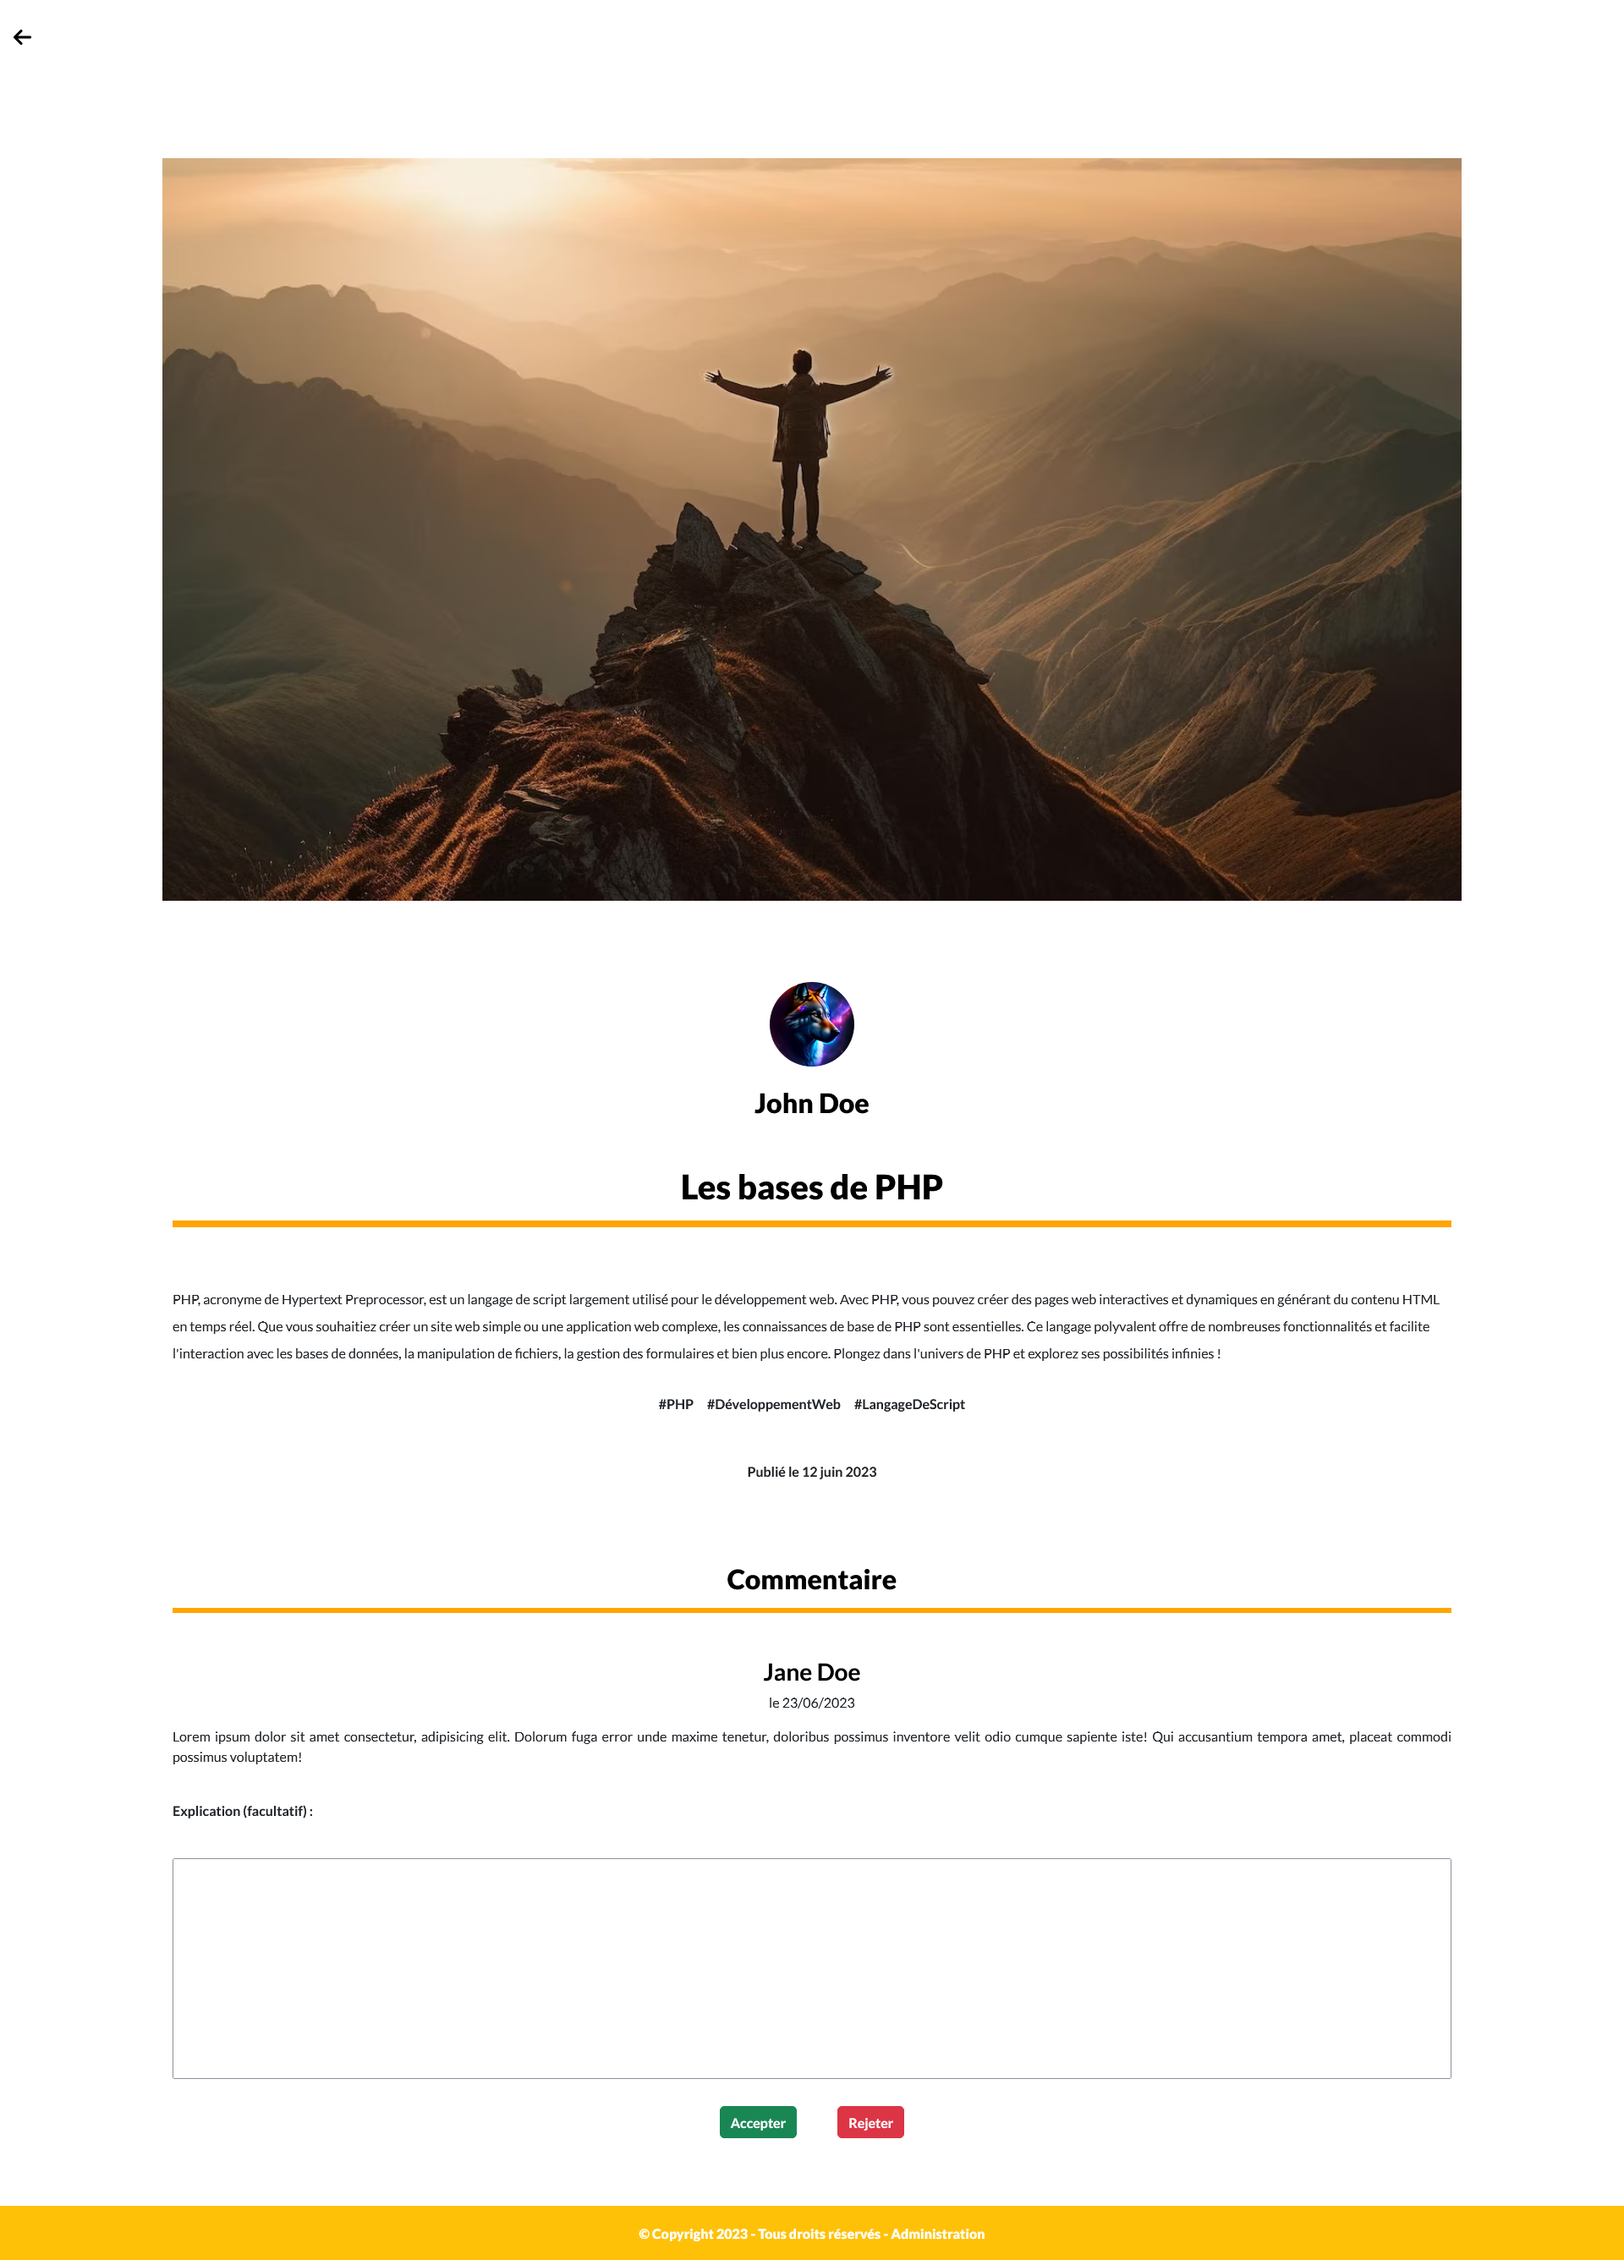
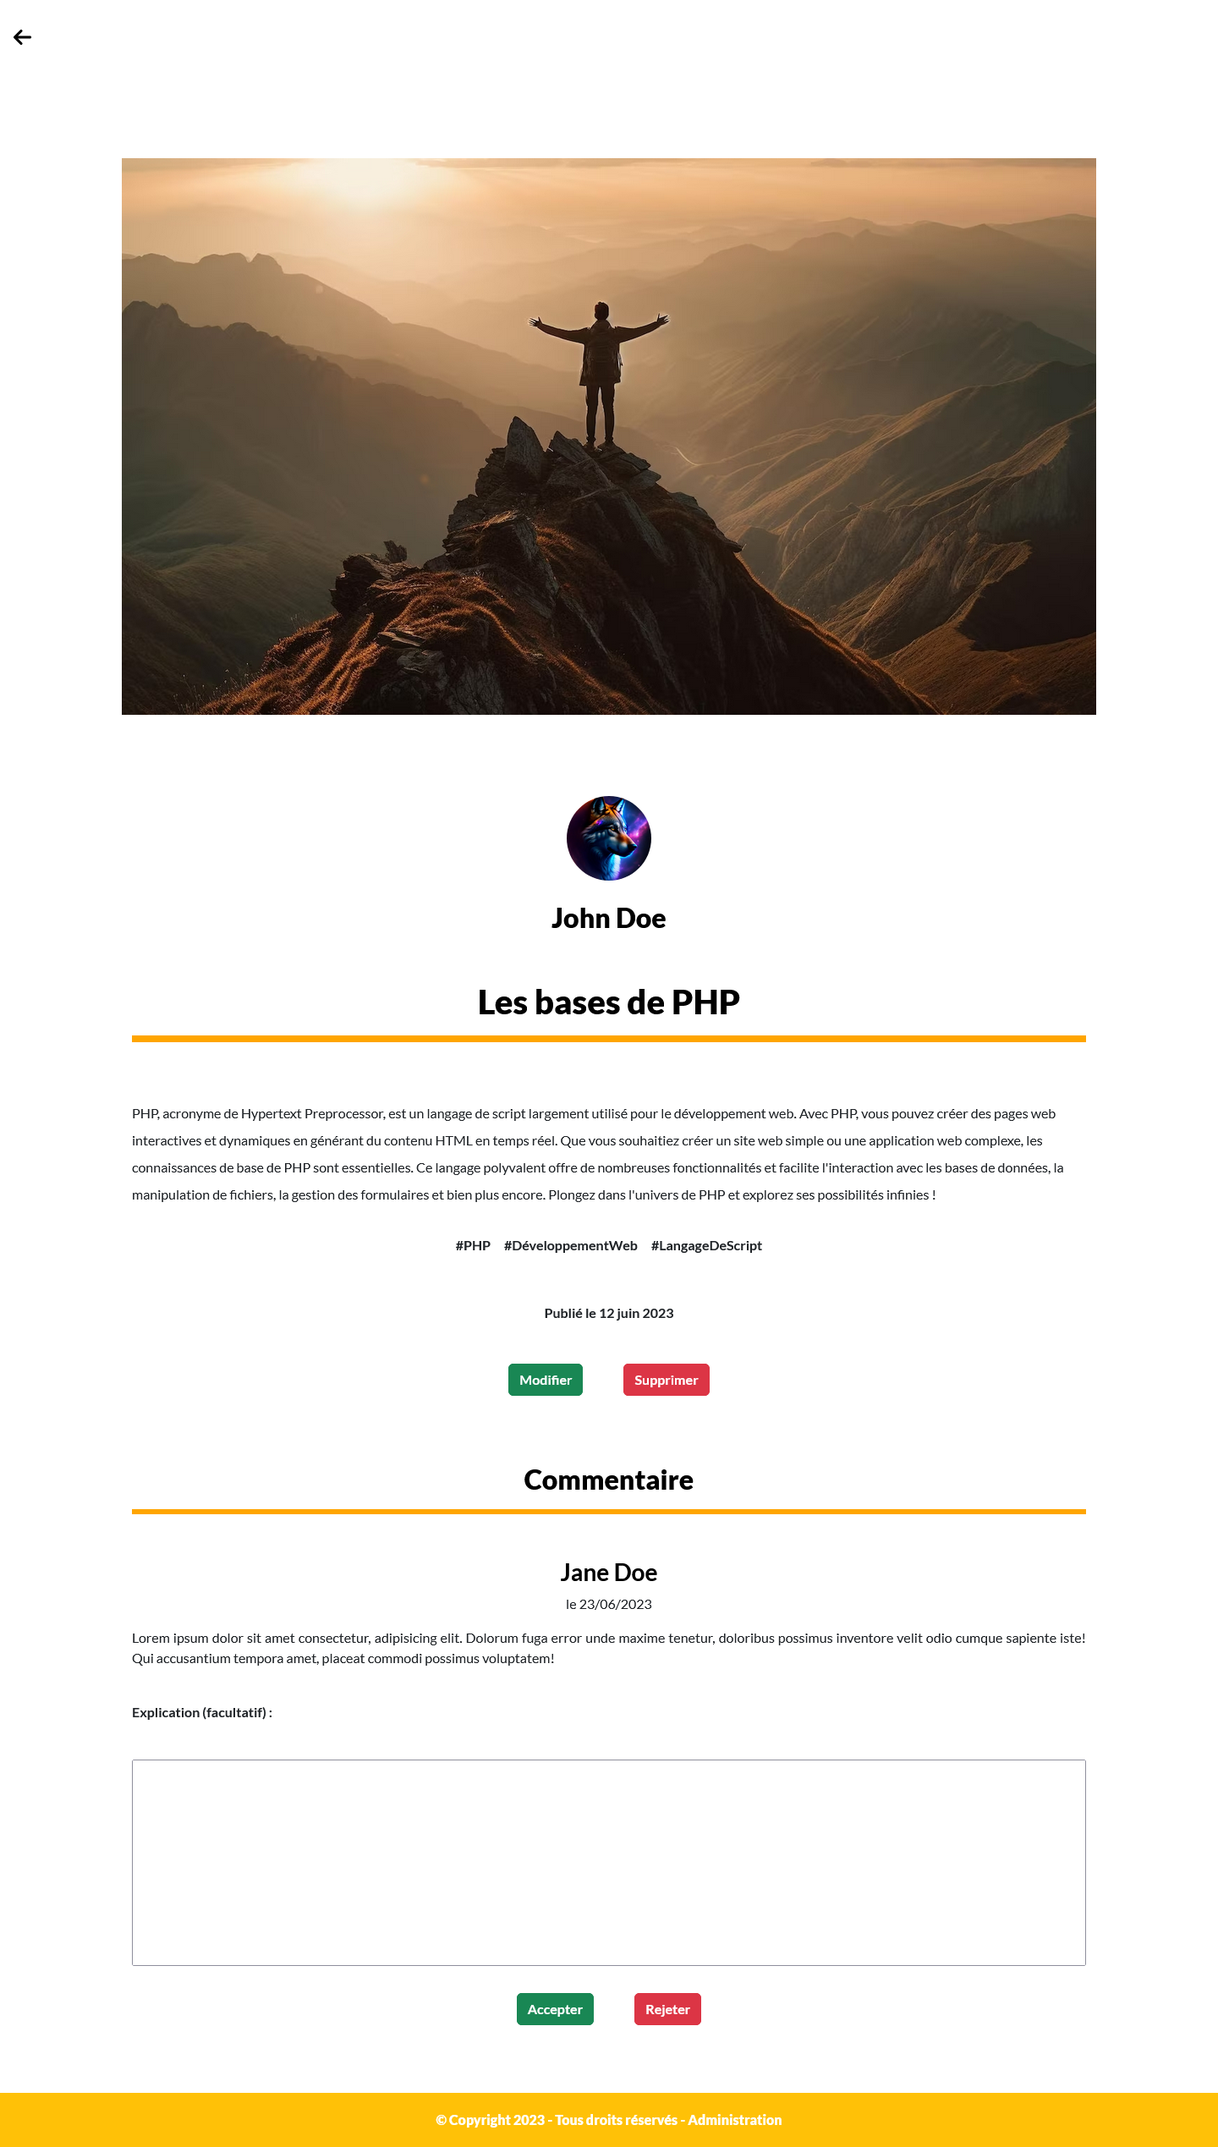
update directory & admins command

Changed region(s): [[0.0938, 0.0623, 0.9062, 0.6537], [0.0938, 0.6848, 0.875, 0.8093], [0.3438, 0.9027, 0.625, 0.9961]]

diff --git a/public/assets/css/article.css b/public/assets/css/article.css
@@ -57,19 +57,21 @@ header {
   border-width: .2em;
   position: relative;
 }
-.article-title::after{
+
+.article-title::after {
   content: '';
   position: absolute;
   width: 100%;
   border-bottom: 1px solid orange;
-    border-bottom-width: 1px;
+  border-bottom-width: 1px;
   border-width: .2em;
   left: 50%;
   top: 50%;
-  transform: translate(-50%,-50%);
+  transform: translate(-50%, -50%);
   bottom: -24px;
 }
-.article-content{
+
+.article-content {
 
   line-height: 2em;
   margin-bottom: 2em;
@@ -96,14 +98,22 @@ header {
   margin-inline: 0;
 }
 
-#comment{
+#comment {
   margin-top: 5em;
   margin-bottom: 5em;
   width: 80%;
 }
-#comment-main-title{
+
+#comments {
+  margin-top: 10em;
+  margin-bottom: 5em;
+  width: 80%;
+}
+
+#comment .h2,
+#comments .h2 {
   font-weight: var(--900);
-  color:var(--black);
+  color: var(--black);
   width: 100%;
   border-width: .2em;
   text-align: center;
@@ -112,65 +122,37 @@ header {
   position: relative;
 }
 
-#comment-main-title::after{
+.h2::after {
   content: '';
   position: absolute;
   width: 100%;
   border-bottom: 1px solid orange;
-    border-bottom-width: 1px;
+  border-bottom-width: 1px;
   border-width: .2em;
   left: 50%;
   top: 50%;
-  transform: translate(-50%,-50%);
+  transform: translate(-50%, -50%);
   bottom: -24px;
-}
-
-.commentary-box{
-  text-align: center;
-}
-
-.author-comment{
-  font-weight: var(--700);
-  color:var(--black);
-}
-
-.content-comment{
-  margin-bottom: 2.5em;
-  text-align: justify;
-}
-
-form{
-  display: flex;
-  flex-direction: column;
-  gap:2em ;
-}
-form label{
-  font-weight: var(--700);
-  padding-bottom: .8em;
 }
 
 form textarea {
   resize: none;
+  width: 100%;
+  margin-bottom: 2em;
 }
 
-#commands-article{
-  margin-top:2em;
-}
-.commands-admin {
-  display: flex;
-  justify-content: center;
-  gap: 3em;
+/* Servira plus tard pour la partie commentaire*/
+.disable-comments {
+  display: none;
 }
 
-#update{
-  text-decoration: none;
-  color:var(--white);
+#comment .command-box .command {
+  width: 100%;
+  background-color: var(--black);
   font-weight: var(--700);
+  padding: 1em;
 }
-.commands-admin .command{
-  font-weight: var(--700);
-  color:var(--white);
-}
+
 @media (max-width:576px) {
 
   #article .article-banner {
@@ -199,7 +181,7 @@ form textarea {
   }
 
   .article-date {
-   
+
     font-size: .9em;
   }
 }

diff --git a/public/index.php b/public/index.php
@@ -46,6 +46,11 @@ switch($selection):
 
       echo $twig->render("admin_view_article_and_commentary.twig");
     break;
+
+    case "article":
+
+      echo $twig->render("article.twig");
+    break;
   default:
     echo $twig->render("homepage.twig");
 endswitch;
